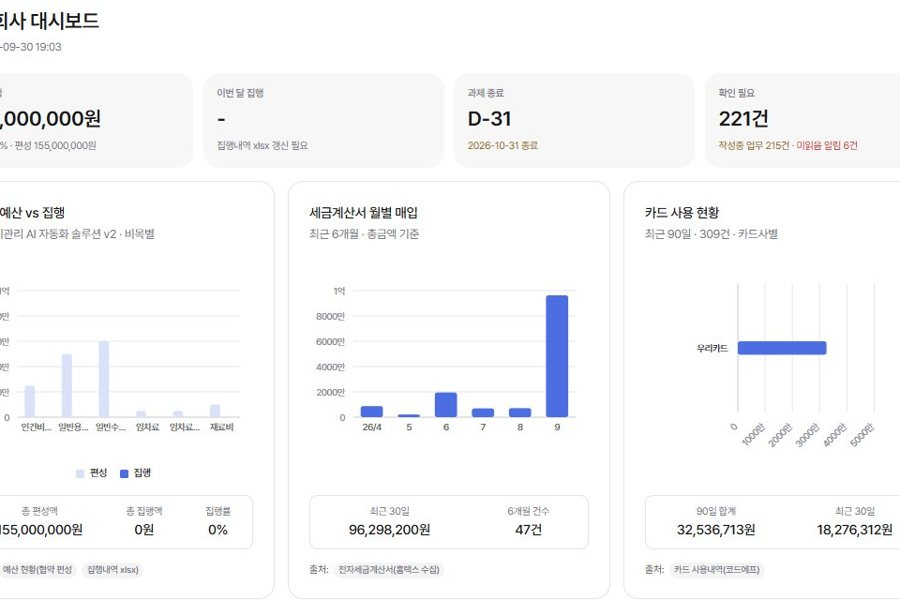
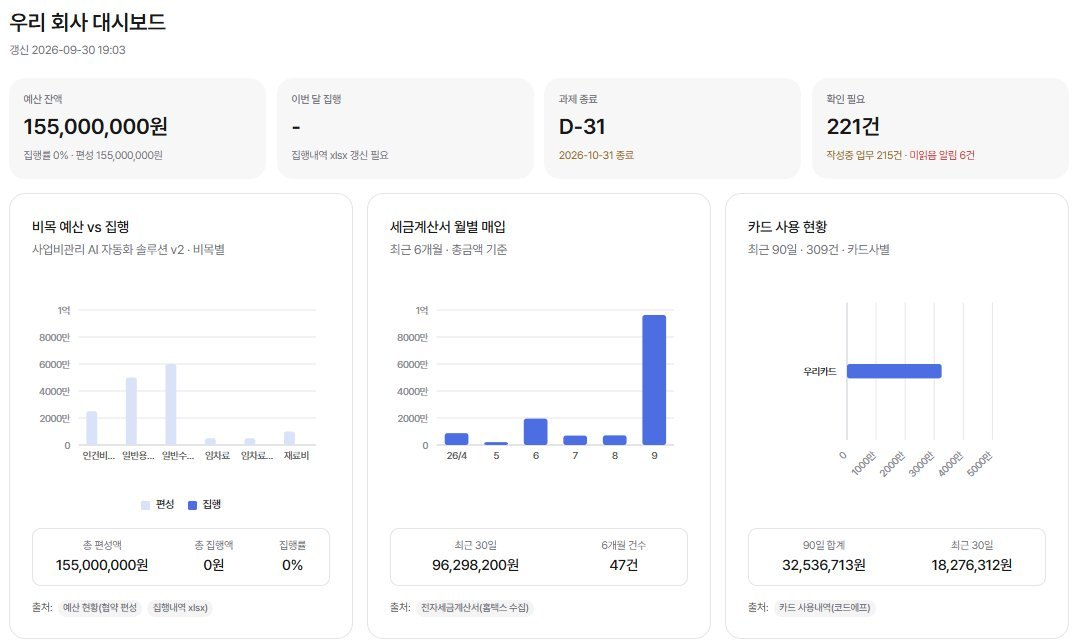
Polish the home page before the client preview
Hero headline now carries the programme name, nav reads as plain links,
startup cards lead with one action, About sits in two columns, and the
LUMOS card uses the uncropped dashboard shot. The 1:1 lookup only shows
on the 1:1 tab; email links point there directly.

Claude-Session: https://claude.ai/code/session_01NHWwALqDdN8ApPEvDEBwBf

diff --git a/src/routes/index.tsx b/src/routes/index.tsx
@@ -126,7 +126,7 @@ function useTiltAndMagnet() {
   }, []);
 }
 
-const HEADLINE = ["Korea", "GovTech", "Demo", "Day"];
+const HEADLINE = ["K-GovTech", "Open", "Innovation", "Day"];
 
 // Hero art (Tammy's mock-up: night earth with routes). Asia at night is
 // NASA Black Marble rendered as a globe on #08142E (three.js, 2880×1300);
@@ -176,11 +176,11 @@ function Landing() {
             <Wordmark />
           </a>
           <nav className="-mx-1 flex items-center gap-1.5 text-xs font-semibold text-navy sm:text-sm md:mx-0 md:gap-2">
-            <a href="#rsvp" className="rounded-md bg-secondary px-2.5 py-2 hover:bg-accent md:px-4">RSVP</a>
-            <a href="#startups" className="rounded-md bg-secondary px-2.5 py-2 hover:bg-accent md:px-4">Companies</a>
-            {JUDGES.length > 0 && <a href="#judges" className="rounded-md bg-secondary px-2.5 py-2 hover:bg-accent md:px-4">Judges</a>}
-            <a href="#about" className="rounded-md bg-secondary px-2.5 py-2 hover:bg-accent md:px-4">About</a>
-            <a href="/lounge" className="rounded-md bg-secondary px-2.5 py-2 hover:bg-accent md:px-4">Lounge</a>
+            <a href="#rsvp" className="rounded-md px-2.5 py-2 transition hover:bg-secondary md:px-3.5">RSVP</a>
+            <a href="#startups" className="rounded-md px-2.5 py-2 transition hover:bg-secondary md:px-3.5">Companies</a>
+            {JUDGES.length > 0 && <a href="#judges" className="rounded-md px-2.5 py-2 transition hover:bg-secondary md:px-3.5">Judges</a>}
+            <a href="#about" className="rounded-md px-2.5 py-2 transition hover:bg-secondary md:px-3.5">About</a>
+            <a href="/lounge" className="rounded-md px-2.5 py-2 transition hover:bg-secondary md:px-3.5">Lounge</a>
             <span className="ml-auto md:ml-2"><ContactOrganizer /></span>
           </nav>
         </div>
@@ -208,9 +208,8 @@ function Landing() {
             ))}
           </h1>
           <p className="hero-in [--i:5] mt-6 max-w-xl text-base leading-relaxed text-white/85 sm:text-[1.0625rem]">
-            Six Korean GovTech companies take the stage in Singapore to pitch breakthrough solutions and demonstrate
-            technology built for better public services. Meet the founders, experience live demos, and explore
-            opportunities for pilots and cross-border partnerships.
+            Six Korean startups bring AI built for public services to Singapore. Meet the founders, see the live
+            demos and find your next pilot or cross-border partner.
           </p>
           <div className="hero-in [--i:6] mt-8 flex flex-wrap gap-3">
             <Link to="/book" search={{ day: "7" }} data-magnet className="btn-hero magnet rounded-full px-6 py-3.5 text-sm font-semibold">
@@ -319,7 +318,7 @@ function Landing() {
                       src={STARTUP_IMAGES[c.slug]}
                       alt={`${c.name}: ${c.sector}`}
                       loading="lazy"
-                      className="h-full w-full object-cover transition duration-500 group-hover:scale-[1.03]"
+                      className={`h-full w-full object-cover ${c.slug === "llumos" ? "object-left-top" : ""} transition duration-500 group-hover:scale-[1.03]`}
                     />
                   ) : (
                     // No product photo yet: the "serves" line from the hero, set large.
@@ -332,9 +331,9 @@ function Landing() {
                   )}
                 </Link>
                 <div className="flex flex-1 flex-col gap-2 p-3 sm:p-4">
-                  <Link to="/companies/$slug" params={{ slug: c.slug }} className="flex h-8 items-center" title={c.name}>
+                  <Link to="/companies/$slug" params={{ slug: c.slug }} className="flex h-10 items-center" title={c.name}>
                     {STARTUP_LOGOS[c.slug] ? (
-                      <img src={STARTUP_LOGOS[c.slug]} alt={c.name} className="max-h-7 max-w-[120px] object-contain object-left sm:max-h-8 sm:max-w-[150px]" />
+                      <img src={STARTUP_LOGOS[c.slug]} alt={c.name} className={`${c.slug === "mediaiplus" ? "max-h-10" : "max-h-7 sm:max-h-8"} max-w-[120px] object-contain object-left sm:max-w-[150px]`} />
                     ) : (
                       <span className="font-display text-lg font-bold text-navy">{c.name}</span>
                     )}
@@ -342,13 +341,6 @@ function Landing() {
                   <div className="text-xs font-semibold text-primary">{c.sector}</div>
                   <p className="line-clamp-3 text-xs leading-relaxed text-muted-foreground sm:text-[13px]">{c.tagline}</p>
                   <div className="mt-auto flex flex-col gap-2 pt-2">
-                    <Link
-                      to="/companies/$slug"
-                      params={{ slug: c.slug }}
-                      className="rounded-full border border-primary px-3 py-2 text-center text-xs font-semibold text-primary hover:bg-primary/10"
-                    >
-                      View profile
-                    </Link>
                     {ONE_ON_ONE_OPEN && (
                       <Link
                         to="/book"
@@ -358,6 +350,13 @@ function Landing() {
                         Book a 1:1 meeting
                       </Link>
                     )}
+                    <Link
+                      to="/companies/$slug"
+                      params={{ slug: c.slug }}
+                      className="py-1 text-center text-xs font-semibold text-navy/70 transition hover:text-primary"
+                    >
+                      View profile →
+                    </Link>
                   </div>
                 </div>
               </article>
@@ -395,7 +394,8 @@ function Landing() {
       {/* HOST — KOSA only for now (same rule as KISED: hosts first) */}
       <section id="about" className="relative isolate overflow-hidden bg-hero-gradient text-white">
         <div aria-hidden className="dotgrid pointer-events-none absolute inset-0 -z-10" />
-        <div data-reveal className="mx-auto max-w-7xl px-4 py-16 sm:px-6 md:py-20">
+        <div data-reveal className="mx-auto grid max-w-7xl gap-12 px-4 py-16 sm:px-6 md:py-20 lg:grid-cols-[1.2fr_1fr] lg:gap-20">
+          <div>
           <h2 className="max-w-2xl text-2xl font-bold md:text-3xl">About the K-GovTech Open Innovation Day</h2>
           <p className="mt-4 max-w-2xl leading-relaxed text-white/80">
             A KOSA programme that takes Korean GovTech startups to Singapore to meet public agencies, investors and
@@ -403,7 +403,8 @@ function Landing() {
             1:1 business meetings, the IR / Demo Day and visits to ecosystem partners.
           </p>
 
-          <div className="mt-12 border-t border-white/15 pt-10">
+          </div>
+          <div className="border-t border-white/15 pt-10 lg:border-l lg:border-t-0 lg:pl-12 lg:pt-1">
             <p className="text-sm font-medium text-lichen">Hosted by</p>
             <div className="mt-4 max-w-xl">
               <a href={KOSA_SITE} target="_blank" rel="noopener noreferrer" className="inline-flex">

diff --git a/src/lib/confirmation.ts b/src/lib/confirmation.ts
@@ -113,7 +113,7 @@ export function buildConfirmation(input: ConfirmationInput): ConfirmationEmail {
     "K-GovTech Open Innovation Day · 1:1 Business Meetings",
     "20261103T143000/20261103T165000",
     `${MEETUP_VENUE}, ${MEETUP_ADDRESS}`,
-    ["Your 1:1 meetings:", ...meetings.map((m) => `• ${m.round} ${m.time} — ${m.company}`), "", `Manage: ${SITE}/book#manage`].join("\n"),
+    ["Your 1:1 meetings:", ...meetings.map((m) => `• ${m.round} ${m.time} — ${m.company}`), "", `Manage: ${SITE}/book?day=5#manage`].join("\n"),
   );
   const demoCal = gcal(
     "K-GovTech Open Innovation Day · Singapore Demo Day",
@@ -146,7 +146,7 @@ export function buildConfirmation(input: ConfirmationInput): ConfirmationEmail {
     t.push("• Check-in: scan the QR code at the entrance and enter this email address to collect your name badge.");
     t.push(`• Networking Lounge: a private, attendee-only directory of everyone in the room — ${SITE}/lounge`, "");
   }
-  t.push(`View or cancel your 1:1 meetings: ${SITE}/book#manage`);
+  t.push(`View or cancel your 1:1 meetings: ${SITE}/book?day=5#manage`);
   t.push(`Startup one-pagers: ${SITE}/#startups`, "");
   t.push("Need to change something? Re-submit the RSVP form with the same email, or simply reply to this email.", "");
   if (!personal) t.push("Warm regards,", "LodestarT team, for K-GovTech Open Innovation Day 2026");
@@ -201,7 +201,7 @@ ${personalHtml}
     <div style="background:#fdf6e3;border:1px solid #f2c14e;padding:12px 14px;">A few <b>1:1 meeting slots on Tue 3 Nov</b> are still open — ${link(`${SITE}/book?day=5`, "book a meeting")}.</div>
   </td></tr>` : ""}
   <tr><td style="padding:4px 32px 22px;${F}font-size:14px;line-height:21px;color:#0f2a2c;">
-    ${link(`${SITE}/book#manage`, "View or cancel your 1:1 meetings")}<br>
+    ${link(`${SITE}/book?day=5#manage`, "View or cancel your 1:1 meetings")}<br>
     ${link(`${SITE}/#startups`, "Browse the startup one-pagers")}<br><br>
     Need to change something? Re-submit the RSVP form with the same email, or simply reply to this email.
   </td></tr>

diff --git a/src/routes/book.tsx b/src/routes/book.tsx
@@ -866,7 +866,8 @@ function RsvpPage() {
           </div>
         </form>
 
-        {/* CHECK / MANAGE — #manage is linked from the confirmation email */}
+        {/* CHECK / MANAGE — 1:1 day only; linked from the confirmation email (/book?day=5#manage) */}
+        {day === "5" && (
         <div id="manage" className="mt-12 scroll-mt-24 rounded-2xl border border-border bg-card p-6 shadow-sm sm:p-8">
           <div className="text-xs font-semibold uppercase tracking-[0.2em] text-primary">
             Already registered?
@@ -944,6 +945,7 @@ function RsvpPage() {
             </div>
           )}
         </div>
+        )}
 
         <p className="mt-8 text-center text-xs leading-relaxed text-muted-foreground">
           By submitting, you agree that the organizers may use your details to manage event

diff --git a/src/routes/lounge.tsx b/src/routes/lounge.tsx
@@ -405,7 +405,7 @@ function LoungePage() {
                   <LockGlyph className="h-5 w-5 text-primary" />
                 </div>
                 <div className="relative min-w-0">
-                  <h2 className="text-sm font-bold text-navy">{"<Networking Lounge Notice>"}</h2>
+                  <h2 className="text-sm font-bold text-navy">Networking lounge notice</h2>
                   <p className="mt-2 text-xs leading-relaxed text-muted-foreground">
                     To facilitate professional networking during the {EVENT_NAME},
                     this directory displays the name, organisation, designation and primary business
